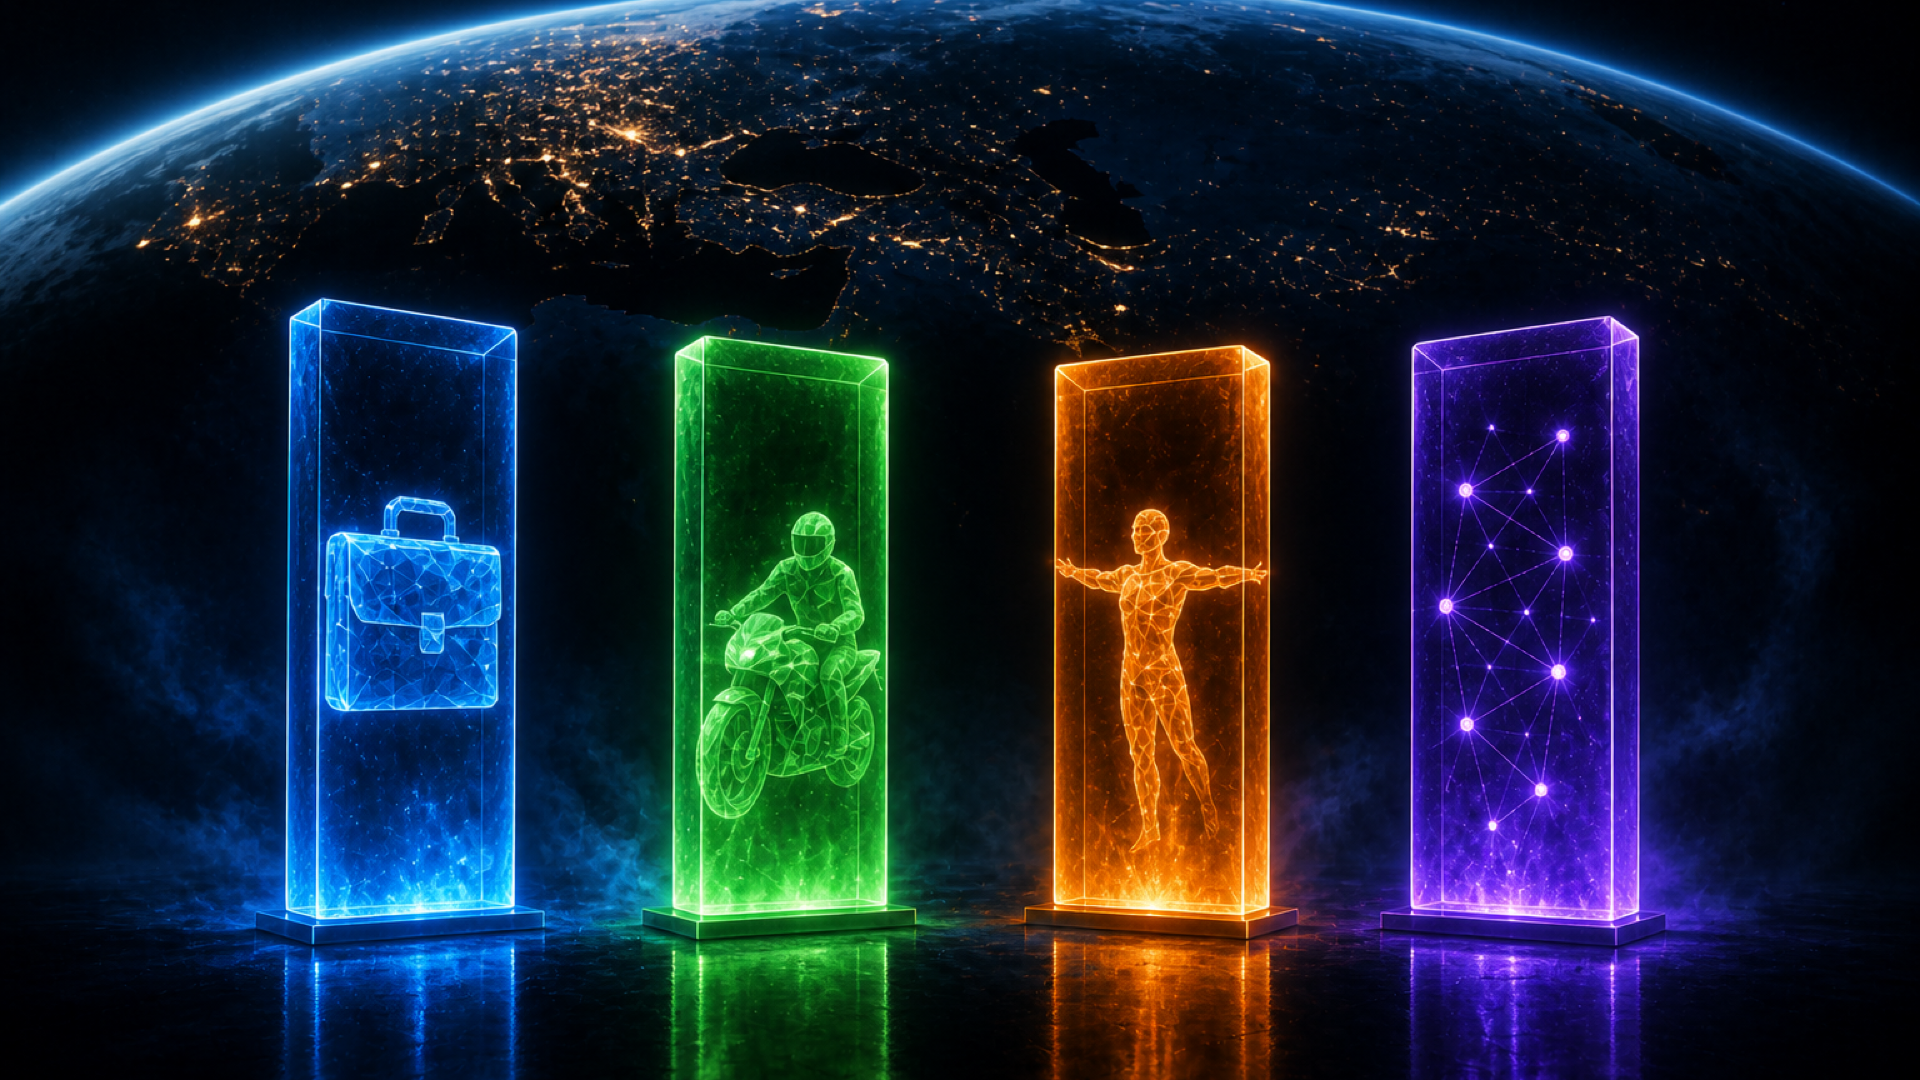
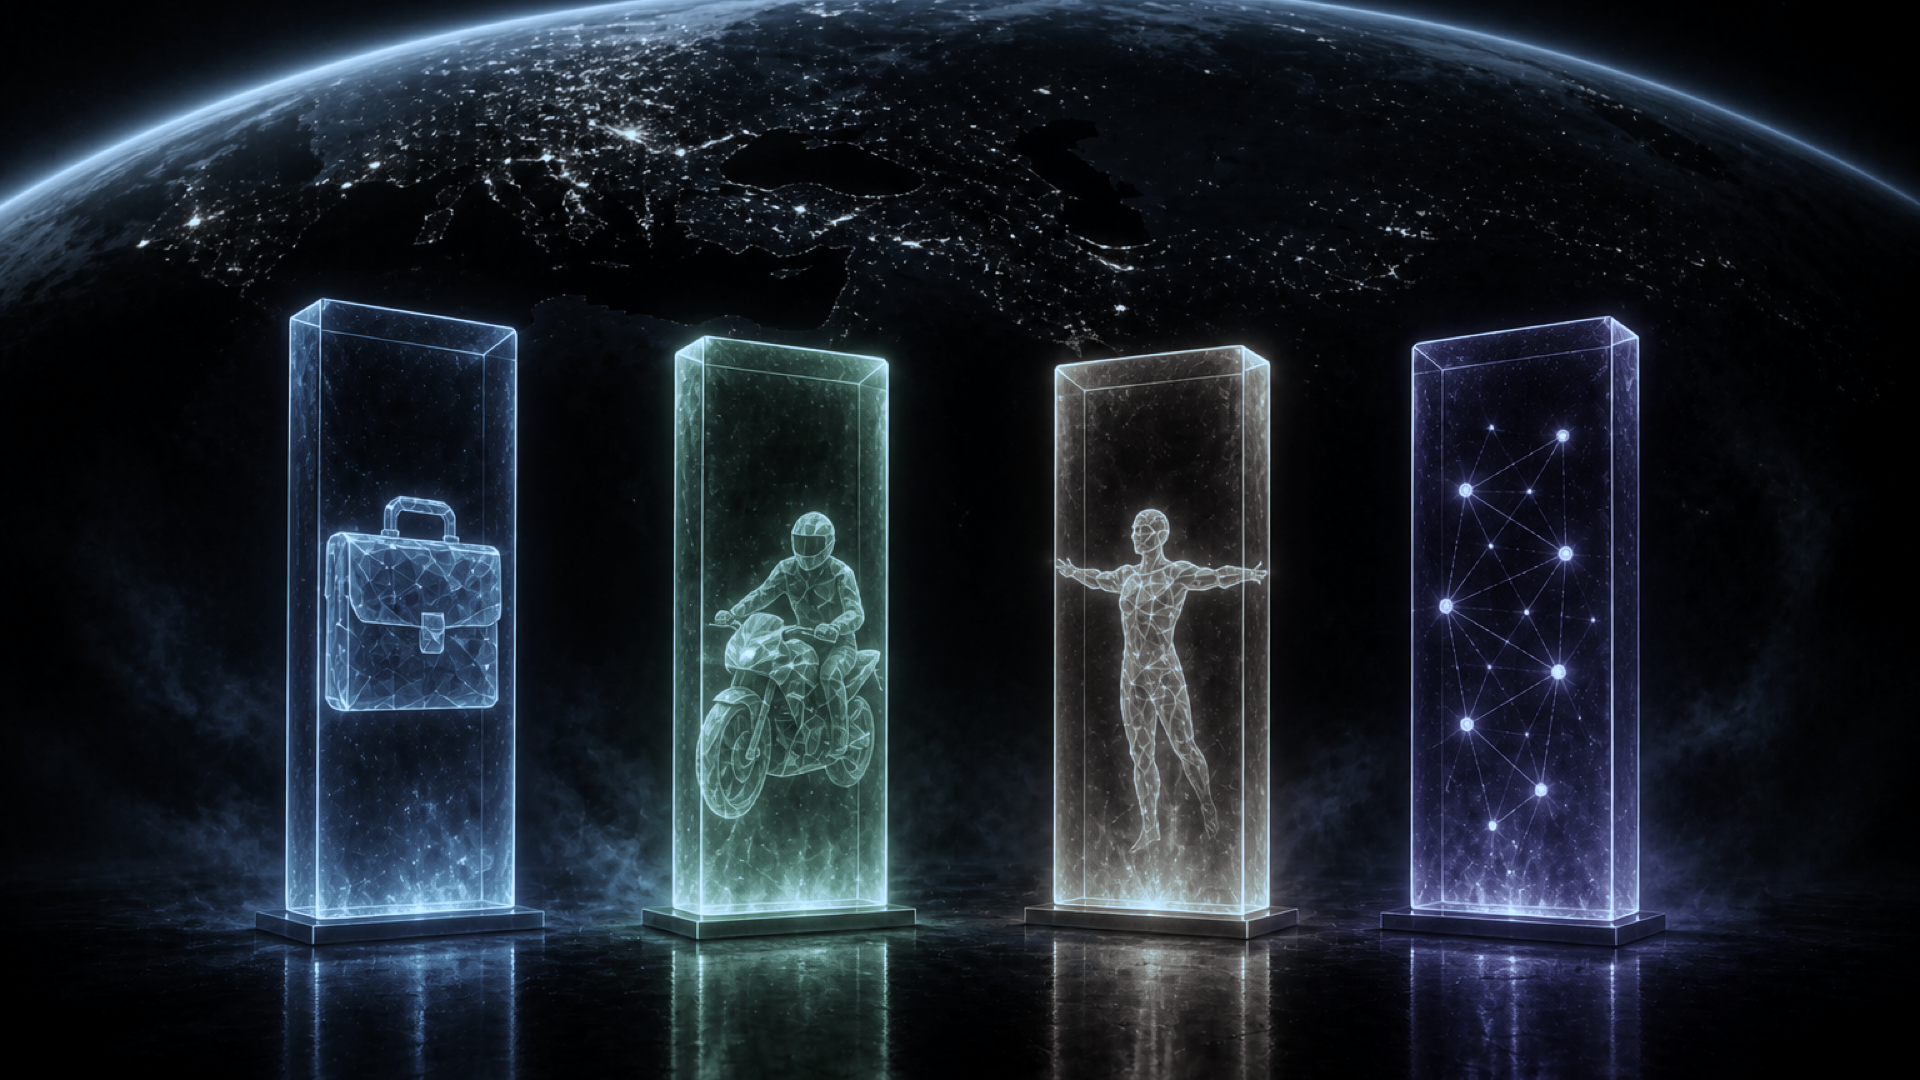
feat(income-stack): recolor world plate off the four-stack palette

diff --git a/apps/superpatch-income-stack/scripts/recolor-world-plate.py b/apps/superpatch-income-stack/scripts/recolor-world-plate.py
@@ -1,0 +1,18 @@
+"""One-off: recolor the World plate to cool neutrals (spec 2026-08-17 super-stack layout).
+
+The slabs must stop reading as the Product/Brand/Income/People stack roles.
+Desaturate hard, then apply a cool steel cast that keeps the luminance shape.
+"""
+
+from PIL import Image, ImageEnhance
+
+SRC = "public/concepts/clean/sp-stack-02-world.png"
+
+img = Image.open(SRC).convert("RGB")
+muted = ImageEnhance.Color(img).enhance(0.18)
+r, g, b = muted.split()
+r = r.point(lambda v: int(v * 0.82))
+g = g.point(lambda v: int(v * 0.97))
+b = b.point(lambda v: min(255, int(v * 1.12)))
+Image.merge("RGB", (r, g, b)).save(SRC)
+print(f"recolored {SRC}")
